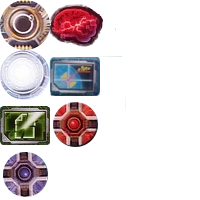
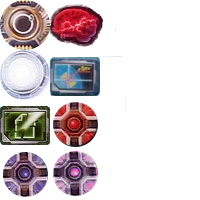
rajout d'un token special

Changed region(s): [[0.24, 0.75, 0.51, 0.99]]

diff --git a/ANR/src/main/resources/templates/gsap.html b/ANR/src/main/resources/templates/gsap.html
@@ -69,7 +69,7 @@
 						{ id : 4, faction : 'corp', url : '01089', face : "down",
 							location : { primary : "server", serverIndex : -3, secondary : "ices", index : 0 } }, //
 						{ id : KATE, faction : 'runner', type : 'id', url : '01033', location : { primary : "grip", index : 0 }, //
-						tokens : { credit : 5, power : 1 },
+						tokens : { credit : 5, hability : 1 },
 							actions : [ { id : -1, text : "Gain {1:credit}", cost : "{1:click}" }, { id : -1, text : "Draw 1 card", cost : "{1:click}" } ] },//
 						{ id : 6, faction : 'runner', url : '01034', face : "down", location : { primary : "stack", index : 0 } },//
 						{ id : 7, faction : 'runner', url : '01035', face : "down", location : { primary : "stack", index : 1 } },//
@@ -106,7 +106,7 @@
 				] });
 			} else if (action.id === INSTALL_ON_PIPELINE) {
 				cm.publish({ cards : [//
-				{ id : KATE, tokens : { credit : 8, power : 0 } }, //
+				{ id : KATE, tokens : { credit : 8, hability : 0 } }, //
 				{ id : PERSONNAL_TOUCH, face : "up", location : { primary : "card", serverIndex : PIPELINE, index : 0 } } //
 				], servers : [ //
 				{ id : -3, name : "HQ", actions : [ { id : RUN_HQ, text : "Run", cost : "{1:click}" } ] } //	
@@ -135,7 +135,7 @@
 				cm.publish({ primary : DATA_RAVEN, closePrimary : true, runs : [ { id : 1, operation : "remove" } ] });
 			} else if (action.id === PUMP_PIPELINE) {
 				cm.publish({ cards : [ { id : TOOLBOX, tokens : { recurring : 0 } }, //
-				{ id : PIPELINE, tokens : { power : 1 }, actions : [ { id : PUMP_PIPELINE2, cost : '{2:credit}', text : "Pump 1 strength" } ] }, //
+				{ id : PIPELINE, tokens : { hability : 1 }, actions : [ { id : PUMP_PIPELINE2, cost : '{2:credit}', text : "Pump 1 strength" } ] }, //
 				{ id : DATA_RAVEN, actions : [ { id : DATA_RAVEN_PASS, text : "Continue", cls : 'warning' } ] } //
 				] });
 			} else if (action.id === PUMP_PIPELINE2) {
@@ -144,7 +144,7 @@
 						{ id : DATA_RAVEN, actions : [ { id : DATA_RAVEN_PASS, text : "Continue", cls : 'warning' } ] }, //
 						{
 							id : PIPELINE,
-							tokens : { power : 2 },
+							tokens : { hability : 2 },
 							actions : [ { id : BREAK_WITH_PIPELINE, text : "Break selected", type : "break",
 								costs : { 1 : { text : "{1:credit}", enabled : true } } } ] } //
 				] });

diff --git a/ANR/src/main/resources/static/js/anr-card.js b/ANR/src/main/resources/static/js/anr-card.js
@@ -1415,6 +1415,9 @@ function BoxToken(layoutManager, key, value, text) {
 			text = "Power counters";
 		else if (key == "virus")
 			text = "Virus counters";
+		else if (key == "hability")
+			text = "Special hability";
+		
 
 		return new BoxToken(layoutManager, key, me.getValue(), text);
 	}

diff --git a/ANR/src/main/resources/static/css/anr.less b/ANR/src/main/resources/static/css/anr.less
@@ -104,6 +104,10 @@ html , body , body > div.container {
 	&.power {
 		background-position: 0 -@token-width * 3;
 	}
+	
+	&.hability {
+		background-position: -@token-width  -@token-width * 3;
+	}
 }
 
 div#conf {
